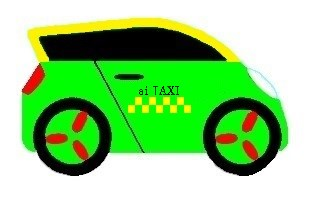
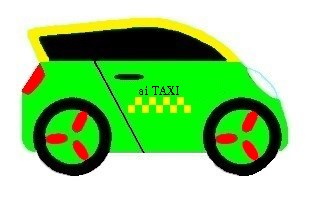
Change pictures width and height

diff --git a/css/style.css b/css/style.css
@@ -211,8 +211,8 @@ img {
 }
 
 .drawing:nth-of-type(1) {
-  width: 250px;
-  height: 160px;
+  width: 310px;
+  height: 200px;
   background: url(../assets/ai-car.jpg);
   background-repeat: no-repeat;
   background-size: 100%;
@@ -220,8 +220,8 @@ img {
 }
 
 .drawing:nth-of-type(2) {
-  width: 250px;
-  height: 160px;
+  width: 310px;
+  height: 200px;
   background: url(../assets/ai-taxi.jpg);
   background-repeat: no-repeat;
   background-size: 100%;
